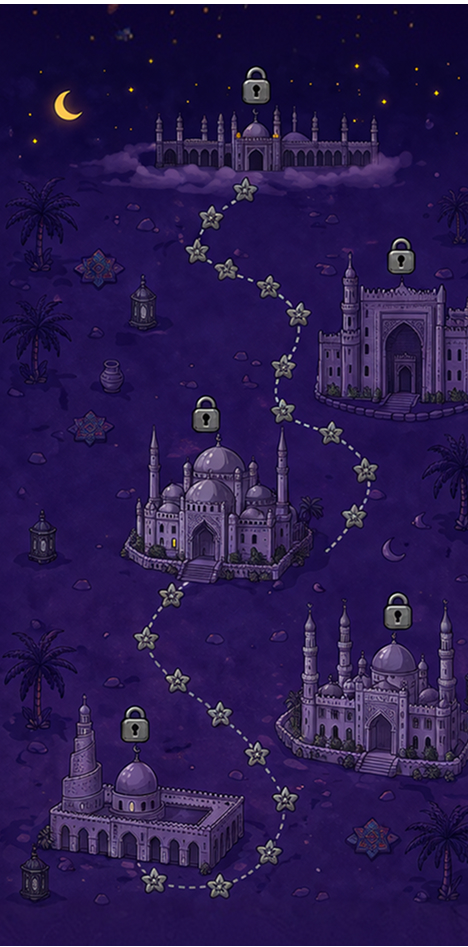
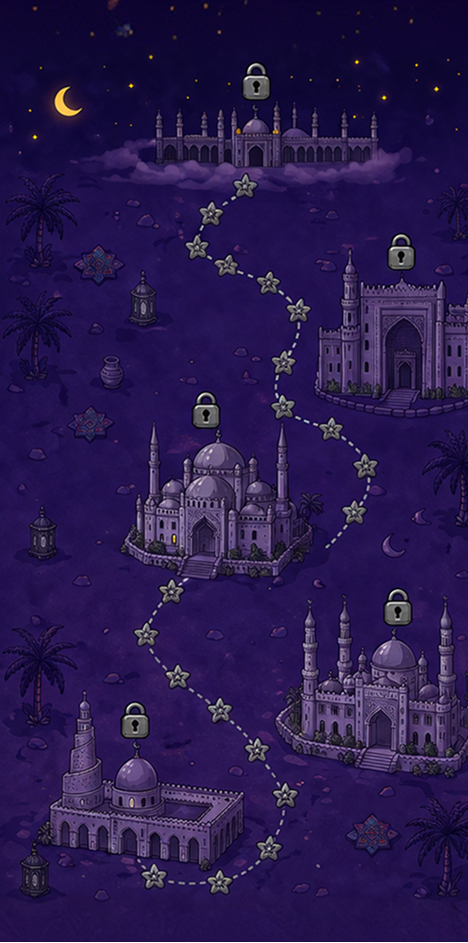
created a level lighting in component and added levels components in page

diff --git a/fanous/src/pages/levels.jsx b/fanous/src/pages/levels.jsx
@@ -1,5 +1,6 @@
 import React from 'react';
 import './home.css'
+import './levels.css'
 import './../animations.css'
 import './../components/layout/header.css'
 import top from './../assets/logo/top.svg'
@@ -19,6 +20,7 @@ import splash from './../assets/levelsbg.jpg'
 import { Link } from 'react-router-dom';
 import Button from '../components/common/button';
 import IconBtn from '../components/common/iconbtn';
+import LevelComp from '../components/common/levelComp';
 
 const Levels = () => {
     return ( <>
@@ -29,10 +31,36 @@ const Levels = () => {
         style1="iconbtnmian"
         link="/menu" />
         </header>
-        <img className='splashBg ' src={splash} alt="" />
-        <img className='splashBg' src={depth} alt="" />
-
-
+        <img className='splashBg levelsBg' src={splash} alt="" />
+        <div className="splashBg depth"></div>
+<LevelComp 
+cont="lvlBg lvl1 "
+stylepos="levelComp glow"
+style1="levelCont current"
+name=" ابن طولون"
+number="1"
+/>
+<LevelComp 
+cont="lvlBg lvl2 levelCompInactive"
+stylepos="levelComp  "
+style1="levelCont inactive"
+name=" المرسي ابو العباس "
+number="2"
+/>
+<LevelComp 
+cont="lvlBg lvl3 levelCompInactive"
+stylepos="levelComp  "
+style1="levelCont inactive"
+name=" المرسي ابو العباس "
+number="2"
+/>
+<LevelComp 
+cont="lvlBg lvl3 levelCompInactive"
+stylepos="levelComp  "
+style1="levelCont inactive"
+name=" المرسي ابو العباس "
+number="2"
+/>
     </div>
     </> );
 }

diff --git a/fanous/src/components/common/levelComp.css b/fanous/src/components/common/levelComp.css
@@ -4,10 +4,41 @@
     text-align: center;
     font-size: 27px;
 }
+.h4dropShadow{
+    text-shadow: 0 1px 0 #000;
+}
 .levelComp{
     display: flex;
     width: 95px;
     flex-direction: column;
     align-items: center;
     gap: 5px;
+}
+.light{
+    border-radius: 341px;
+    background: #8651dc26;
+    background-blend-mode: color;
+    mix-blend-mode: plus-lighter;
+    filter: blur(19.649999618530273px);
+    width: 341px;
+    height: 263px;
+    transform: rotate(90deg);
+    position: absolute;
+    left: -100%;
+}
+.current{
+    color: #FFF;
+    text-shadow: 0 0.871px 0 #000;
+    background-image: url(./../../assets/leveliconinactive.svg);
+}
+.inactive{
+    color: #5c5a5c;
+    text-shadow: 0 0.871px 0 #000;
+    background-image: url(./../../assets/leveliconinactive.svg);
+}
+.levelCompInactive h4{
+    color: #BCA8C0;
+}
+.levelCompInactive .light{
+    display: none;
 }

diff --git a/fanous/src/components/common/levelComp.jsx b/fanous/src/components/common/levelComp.jsx
@@ -1,13 +1,19 @@
 import React from 'react';
 import './levelComp.css';
+import { Link } from 'react-router-dom';
 const LevelComp = (props) => {
     return ( <>
-    <div className="levelComp">
-        <h4>{props.name}</h4>
+    <div className={props.cont}>
+        <div className="light float"></div>
+        <Link id="link">
+        <button className={props.stylepos}>
+        <h4 className='h4dropShadow'>{props.name}</h4>
         <div className={props.style1}>
         {props.number}
         </div>
-         </div>
+    </button>
+        </Link>
+    </div>
   </>
         );}
         

diff --git a/fanous/src/animations.css b/fanous/src/animations.css
@@ -287,3 +287,19 @@ transform-origin: bottom;
 .startBtnAnim{
   animation: startBtnAnim 800ms 2s ease-in-out both ;
 }
+.glow{
+      animation: glow 1s ease-in-out infinite;
+
+}
+@keyframes glow {
+  0%{
+    filter: drop-shadow(0 0px 0px #ffffff00);
+  }
+  
+  50%{
+    filter: drop-shadow(0 0.871px 2.3px #ffffffab);
+  }
+   100%{
+    filter: drop-shadow(0 0px 0px #ffffff00);
+  }
+}

diff --git a/fanous/src/pages/levels.css b/fanous/src/pages/levels.css
@@ -1,0 +1,20 @@
+.lvl1{
+    position: absolute;
+    left: 65px;
+    bottom: 190px;
+}
+.lvl2{
+    position: absolute;
+    right:20px ;
+    bottom: 305px;
+}
+.levelsBg{
+    left: -32px;
+}
+.depth{
+   background-color: rgba(10, 21, 15, 0.383);
+background-blend-mode: multiply;
+filter: blur(34.50239944458008px);
+width: 100%;
+height: 100%;
+}

diff --git a/fanous/src/components/layout/header.css b/fanous/src/components/layout/header.css
@@ -5,5 +5,6 @@ header{
     position: fixed;
     top: 0;
     padding: 53px 28px 0 28px;
+    max-width: 430px;
     box-sizing: border-box;
 }
